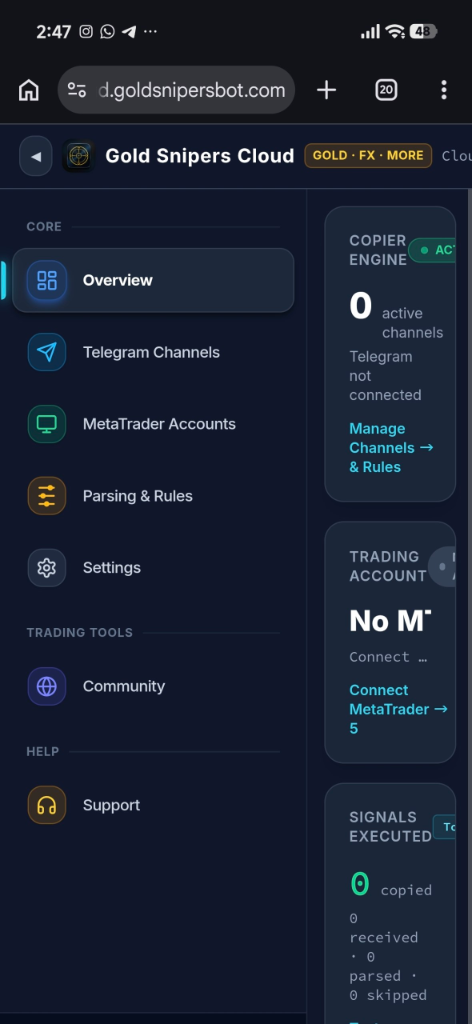
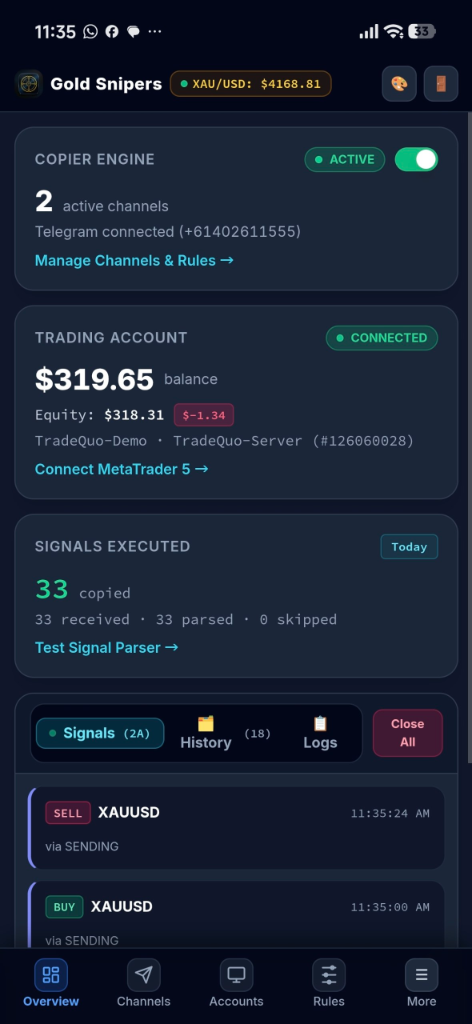
fix(website): replace hero mobile preview with user provided overview screenshot

diff --git a/script.js b/script.js
@@ -378,7 +378,7 @@ function initShowcaseTabs() {
     const imageMap = {
         "trades-img": { directSrc: "guide-step4-live-trades.png", alt: "Gold Snipers Cloud Live Trades Dashboard" },
         "rules-img": { directSrc: "guide-step3-trade-rules.png", alt: "Signal Rules & Grid Ladder Setup" },
-        "mobile-tab-img": { directSrc: "mobile_view.png", alt: "Standalone Mobile PWA View" },
+        "mobile-tab-img": { directSrc: "mobile_view.png?v=383.10", alt: "Standalone Mobile PWA View" },
         "analytics-tab-img": { directSrc: "cloud_analytics.png", alt: "Cloud Analytics & Trade Journal" },
         "tester-tab-img": { directSrc: "signal_test.png", alt: "Interactive Signal Tester & Simulator" },
         "dashboard-img": { directSrc: "dashboard.png", alt: "Gold Snipers Cloud Live Dashboard" },

diff --git a/index.html b/index.html
@@ -252,7 +252,7 @@
                     <div class="mobile-mockup-frame">
                         <div class="mobile-phone-speaker"></div>
                         <div class="mobile-image-body">
-                            <img src="mobile_view.png" alt="Gold Snipers Isolated Mobile View PWA" class="main-mobile-img" loading="eager" width="472" height="1024">
+                            <img src="mobile_view.png?v=383.10" alt="Gold Snipers Isolated Mobile View PWA" class="main-mobile-img" loading="eager" width="472" height="1024">
                         </div>
                         <div class="mobile-phone-bar"></div>
                     </div>
